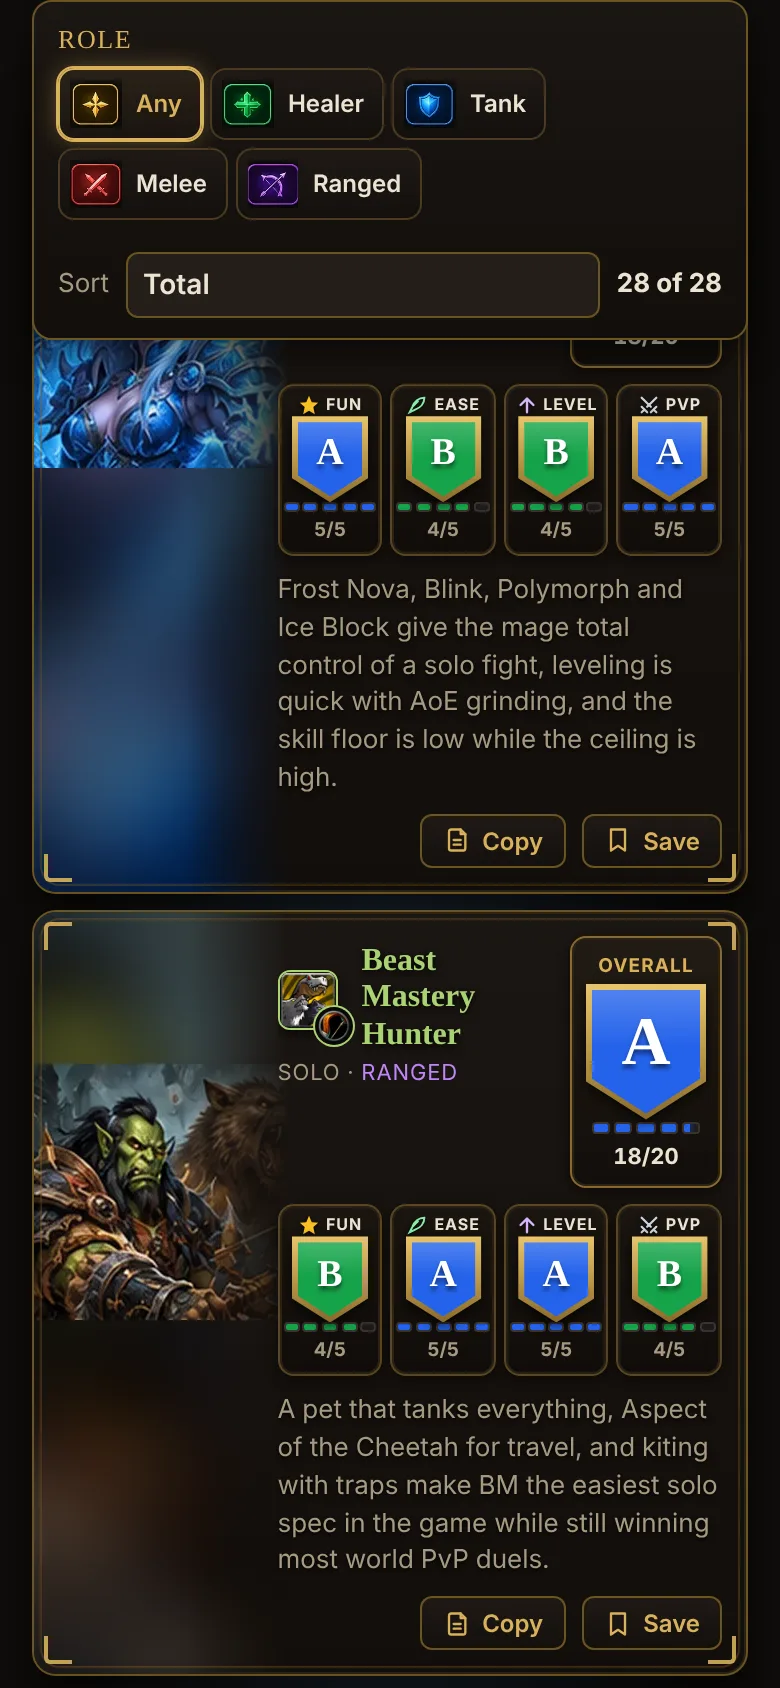
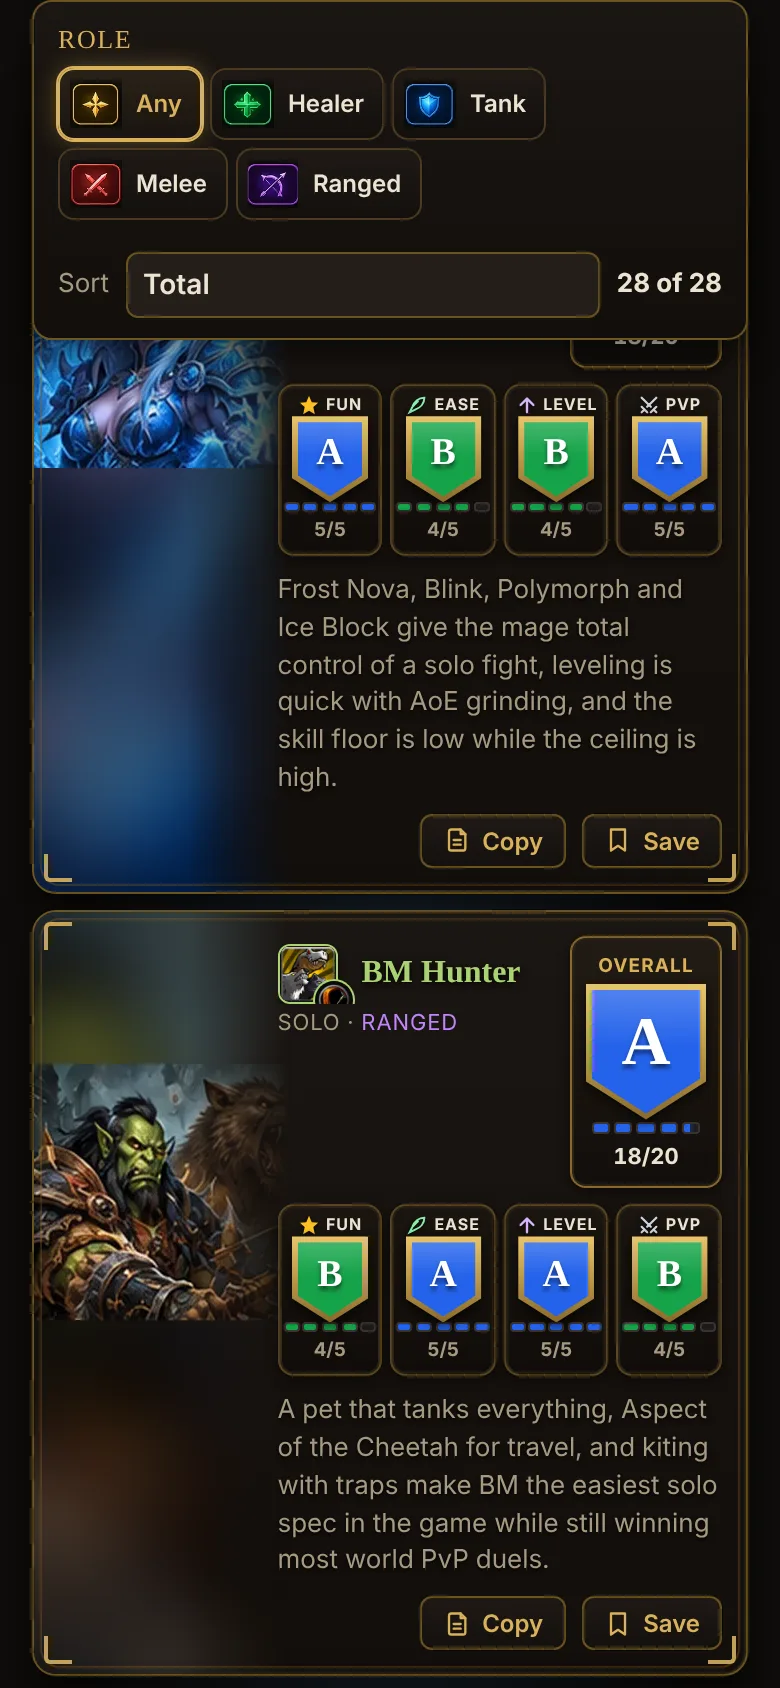
PvP planner: race portraits (male and female) in the Race & Class Explorer
Claude-Session: https://claude.ai/code/session_01D5WRtL93QMjdNmrGVJvuEs

Changed region(s): [[0.3385, 0.5545, 0.6769, 0.6469], [0.7385, 0.5853, 0.7692, 0.6469], [0.0308, 0.3081, 0.0615, 0.3697]]

diff --git a/DuoPlanner/index.html b/DuoPlanner/index.html
@@ -204,12 +204,12 @@ select,.bar select{background:linear-gradient(180deg,#1f1915,#14100d) url("data:
 /* ===== Explorer ===== */
 .xtog{max-width:none;margin-bottom:10px}
 .xcard{border:1px solid #6b5422;border-radius:10px;background:linear-gradient(180deg,#1b1612,#120e0b);margin-bottom:10px;overflow:hidden}
-.xhead{display:flex;align-items:center;gap:10px;padding:10px 12px;cursor:pointer;width:100%;background:none;border:0;color:var(--fg);text-align:left;font:inherit}
+.xhead{display:flex;align-items:flex-start;gap:10px;padding:10px 12px;cursor:pointer;width:100%;background:none;border:0;color:var(--fg);text-align:left;font:inherit}
 .xhead:focus-visible{outline:2px solid var(--gold);outline-offset:-2px}
 .xhead h3{font-size:18px;margin:0;color:var(--fg);letter-spacing:.04em;text-transform:uppercase}
 .xhead .sub{font-size:13px;color:var(--muted);font-style:italic}
 .xhead .ci.big{width:44px;height:44px}
-.chev{margin-left:auto;color:var(--gold);transition:transform .15s;flex-shrink:0}
+.chev{margin-left:auto;color:var(--gold);transition:transform .15s;flex-shrink:0;align-self:center}
 .open>.xhead .chev{transform:rotate(180deg)}
 .xbody{padding:0 12px 12px;display:none}
 .open>.xbody{display:block}
@@ -223,7 +223,7 @@ select,.bar select{background:linear-gradient(180deg,#1f1915,#14100d) url("data:
 .traits li{background:#0f0c0a;border:1px solid #2d251c;border-radius:6px;padding:7px 9px;font-size:13px;line-height:1.4}
 .traits li b{color:var(--gold);display:block;font-size:13.5px}
 .cls{border:1px solid #4a3a22;border-radius:8px;background:#0f0c0a;margin-bottom:6px;overflow:hidden}
-.cls>.xhead{padding:8px 10px}
+.cls>.xhead{padding:8px 10px;align-items:center}
 .cls>.xhead h3{font-size:15px}
 .cls .xbody{padding:0 8px 8px}
 .spec{display:grid;grid-template-columns:36px 1fr;gap:8px;align-items:center;padding:6px 6px;border-top:1px solid #2d251c;font-size:13px}
@@ -242,6 +242,11 @@ select,.bar select{background:linear-gradient(180deg,#1f1915,#14100d) url("data:
 .panel .names .sic{width:26px;height:26px} .panel .names .si{width:26px;height:26px} .panel .names .ci.mini{width:14px;height:14px}
 .names b{grid-template-columns:auto 1fr;gap:12px}
 .rec li span.n{display:flex;align-items:center;flex-wrap:wrap;gap:2px}
+
+.rp{display:inline-flex;flex-shrink:0;align-self:flex-start;border-radius:8px;overflow:hidden;border:1px solid #6b5422;box-shadow:0 2px 6px #000a;background:#0b0908}
+.rp img{width:48px;height:48px;object-fit:cover;display:block}
+.rp img+img{border-left:1px solid #3d2f16}
+.rp.sm img{width:26px;height:26px} .rp.sm{border-radius:5px}
 
 footer{margin-top:24px;color:var(--muted);font-size:12px;text-align:center}
 </style>
@@ -521,6 +526,9 @@ document.getElementById("showAll").onclick=()=>{if(!Object.keys(saved).length)re
 document.getElementById("clearAll").onclick=()=>{saved={};persist();document.getElementById("exportBox").hidden=true;render();toast("Cleared")};
 const CLASSCOL={"Warrior":"#C69B6D","Mage":"#3FC7EB","Warlock":"#8788EE","Rogue":"#FFF468","Hunter":"#AAD372","Druid":"#FF7C0A","Shaman":"#0070DD","Paladin":"#F48CBA","Priest":"#FFFFFF"};
 const XP={"raceDesc": {"Orc": "Once-peaceful shamanic people from Draenor who freed themselves from demonic corruption and now fight for honor.", "Undead": "Forsaken freed from the Lich King, seeking vengeance against the Scourge on their own terms.", "Tauren": "Guardians of natural balance who joined the Horde to repay a debt to the orcs.", "Troll": "The Darkspear tribe, driven from its jungle home and now holding a respected place in the Horde.", "Skyborne (Windshaper)": "Shen'dorei descendants who gained elemental skysight and seek their missing wind-spirit mentors.", "Human": "A young, versatile race of strong kingdoms seeking to restore its former glory.", "Dwarf": "Scholarly, artifact-hunting people who turned from earthly riches to ancient knowledge.", "Night Elf": "Survivors of an ancient forest empire, emerged from isolation to face the Burning Legion again.", "Gnome": "Small but brilliant inventors whose lost city of Gnomeregan was a steam-technology marvel.", "Skyborne (High Order)": "Descendants of Highborne scholars who aim to regain lost arcane knowledge."}, "classOrder": ["Warrior", "Paladin", "Hunter", "Rogue", "Priest", "Shaman", "Mage", "Warlock", "Druid"], "classes": {"Warrior": {"roles": ["Tank", "DPS"], "desc": "Plate-armored fighters who build rage in combat and turn it into crushing weapon attacks or an unbreakable defense.", "specs": [["Arms", "DPS", "Powerful, deliberate weapon attacks."], ["Fury", "DPS", "Fast, relentless melee combat."], ["Protection", "Tank", "Shields, defense, and enemy control."]]}, "Paladin": {"roles": ["Tank", "Healer", "DPS"], "desc": "Holy knights who wield the Light to heal, protect, or smite, with blessings and auras that strengthen the whole group.", "specs": [["Holy", "Healer", "Restores allies with the power of the Light."], ["Protection", "Tank", "Defends allies with holy magic and armor."], ["Retribution", "DPS", "Combines melee weapons with holy damage."]]}, "Hunter": {"roles": ["DPS"], "desc": "Ranged marksmen who fight beside a tamed beast, laying traps and controlling distance.", "specs": [["Beast Mastery", "DPS", "Fights alongside a powerful animal companion."], ["Marksmanship", "DPS", "Focuses on precise ranged weapon damage."], ["Survival", "DPS", "Uses traps and close-range survival tactics."]]}, "Rogue": {"roles": ["DPS"], "desc": "Stealthy melee assassins who pick their fights, open from the shadows, and finish with combo points.", "specs": [["Assassination", "DPS", "Uses poisons and sustained lethal attacks."], ["Combat", "DPS", "Specializes in direct and sustained melee combat."], ["Subtlety", "DPS", "Uses stealth, positioning, and surprise attacks."]]}, "Priest": {"roles": ["Healer", "DPS"], "desc": "Masters of the Light and the Shadow, healing and shielding allies or draining enemies with dark magic.", "specs": [["Discipline", "Healer", "Protects and heals allies with divine magic."], ["Holy", "Healer", "Specializes in powerful restorative spells."], ["Shadow", "DPS", "Uses dark magic and sustained magical damage."]]}, "Shaman": {"roles": ["Healer", "DPS"], "desc": "Spiritual leaders who call on the elements through totems, lightning, and empowered weapons.", "specs": [["Elemental", "DPS", "Strikes enemies with lightning and elemental spells."], ["Enhancement", "DPS", "Empowers melee attacks with elemental energy."], ["Restoration", "Healer", "Heals allies using water magic and totems."]]}, "Mage": {"roles": ["DPS"], "desc": "Cloth-wearing spellcasters who control the battlefield with arcane, fire, and frost magic.", "specs": [["Arcane", "DPS", "Channels powerful arcane magic."], ["Fire", "DPS", "Burns enemies with explosive fire spells."], ["Frost", "DPS", "Controls and damages enemies with freezing magic."]]}, "Warlock": {"roles": ["DPS"], "desc": "Wielders of fel and shadow who command demons and wear enemies down with curses and fear.", "specs": [["Affliction", "DPS", "Weakens enemies with curses and damage over time."], ["Demonology", "DPS", "Uses summoned demons and demonic powers."], ["Destruction", "DPS", "Unleashes powerful destructive spells."]]}, "Druid": {"roles": ["Tank", "Healer", "DPS"], "desc": "Shapeshifting keepers of nature who can fill any role by changing form.", "specs": [["Balance", "DPS", "Uses nature and celestial magic at range."], ["Feral Combat", "Tank / DPS", "Shapeshifts into bears for tanking or cats for melee damage."], ["Restoration", "Healer", "Uses nature magic and healing-over-time spells."]]}}};
+const RIMG={"Orc":"orc","Undead":"undead","Tauren":"tauren","Troll":"troll","Skyborne (Windshaper)":"skyborne","Human":"human","Dwarf":"dwarf","Night Elf":"nightelf","Gnome":"gnome","Skyborne (High Order)":"skyborne"};
+const RACEIMG="../assets/duoplanner/races/";
+function racePair(r,cls){const k=RIMG[r];return k?`<span class="rp ${cls||""}"><img src="${RACEIMG}${k}-m.webp" alt="" loading="lazy"><img src="${RACEIMG}${k}-f.webp" alt="" loading="lazy"></span>`:""}
 const CHEV='<svg class="chev" width="18" height="18" viewBox="0 0 24 24" fill="none" stroke="currentColor" stroke-width="2.5" stroke-linecap="round" stroke-linejoin="round"><path d="M6 9l6 6 6-6"/></svg>';
 const ALLRACES=[...RACES.Horde.map(r=>({...r,faction:"Horde"})),...RACES.Alliance.map(r=>({...r,faction:"Alliance"}))];
 const SPECIMG={};Object.keys(SPECS).forEach(s=>{SPECIMG[s]=SPECS[s].img});
@@ -529,13 +537,13 @@ function roleBadge(r){const k=r.includes("/")?"Mixed":r;return `<span class="rb 
 function classAccordion(cls,opts){const c=XP.classes[cls];
   return `<div class="cls"><button type="button" class="xhead" data-acc>${`<img class="ci big" src="${ICON}${CICON[cls]}.webp" alt="" style="--pc:${CLASSCOL[cls]};width:36px;height:36px">`}<h3 style="color:${CLASSCOL[cls]}">${cls}</h3>${c.roles.map(roleBadge).join(" ")}${CHEV}</button><div class="xbody">${opts&&opts.desc?`<p class="cdesc">${c.desc}</p>`:""}${c.specs.map(([n,r,d])=>`<div class="spec">${specPortrait(cls,n)}<div><div class="sn">${short(n)} ${roleBadge(r)}</div><div class="sd">${d}</div></div></div>`).join("")}</div></div>`}
 function raceCard(r,open){
-  return `<div class="xcard ${open?"open":""}" data-race="${esc(r.race)}"><button type="button" class="xhead" data-acc><div style="flex:1;min-width:0"><h3 style="font-family:var(--display)">${esc(r.race)}</h3><div style="margin:3px 0 4px"><span class="fb ${r.faction}">${r.faction}</span></div><div class="sub">${XP.raceDesc[r.race]||""}</div></div>${CHEV}</button>
+  return `<div class="xcard ${open?"open":""}" data-race="${esc(r.race)}"><button type="button" class="xhead" data-acc>${racePair(r.race)}<div style="flex:1;min-width:0"><h3 style="font-family:var(--display)">${esc(r.race)}</h3><div style="margin:3px 0 4px"><span class="fb ${r.faction}">${r.faction}</span></div><div class="sub">${XP.raceDesc[r.race]||""}</div></div>${CHEV}</button>
   <div class="xbody"><div class="xsec">Racial traits</div><ul class="traits">${r.racials.map(([n,d])=>`<li><b>${esc(n)}</b>${esc(d)}</li>`).join("")}</ul>
   <div class="xsec">Available classes (${r.classes.length})</div>${XP.classOrder.filter(c=>r.classes.includes(c)).map(c=>classAccordion(c)).join("")}</div></div>`}
 function classCard(cls){const c=XP.classes[cls];const races=ALLRACES.filter(r=>r.classes.includes(cls));
   return `<div class="xcard" data-class="${cls}"><button type="button" class="xhead" data-acc><img class="ci big" src="${ICON}${CICON[cls]}.webp" alt="" style="--pc:${CLASSCOL[cls]}"><div style="flex:1;min-width:0"><h3 style="color:${CLASSCOL[cls]}">${cls}</h3><div style="margin-top:3px">${c.roles.map(roleBadge).join(" ")}</div></div>${CHEV}</button>
   <div class="xbody"><p class="cdesc">${c.desc}</p><div class="xsec">Specializations</div>${c.specs.map(([n,r,d])=>`<div class="spec">${specPortrait(cls,n)}<div><div class="sn">${short(n)} ${roleBadge(r)}</div><div class="sd">${d}</div></div></div>`).join("")}
-  <div class="xsec">Playable races (${races.length})</div>${races.map(r=>`<button type="button" class="racerow" data-goto="${esc(r.race)}">${esc(r.race)}<span class="fb ${r.faction}">${r.faction}</span></button>`).join("")}</div></div>`}
+  <div class="xsec">Playable races (${races.length})</div>${races.map(r=>`<button type="button" class="racerow" data-goto="${esc(r.race)}">${racePair(r.race,"sm")}${esc(r.race)}<span class="fb ${r.faction}">${r.faction}</span></button>`).join("")}</div></div>`}
 state.xview="races";
 function renderExplorer(openRace){
   const list=document.getElementById("raceList");
